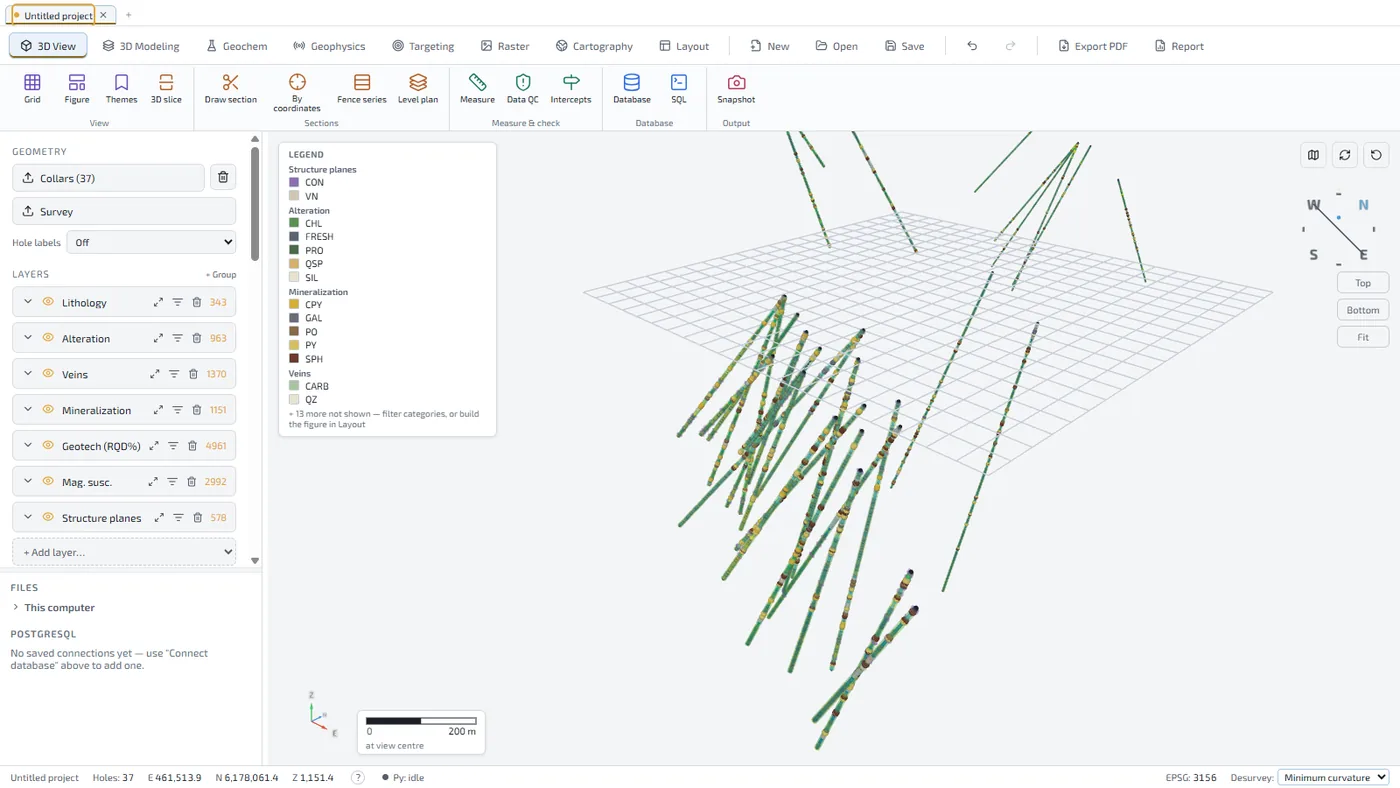
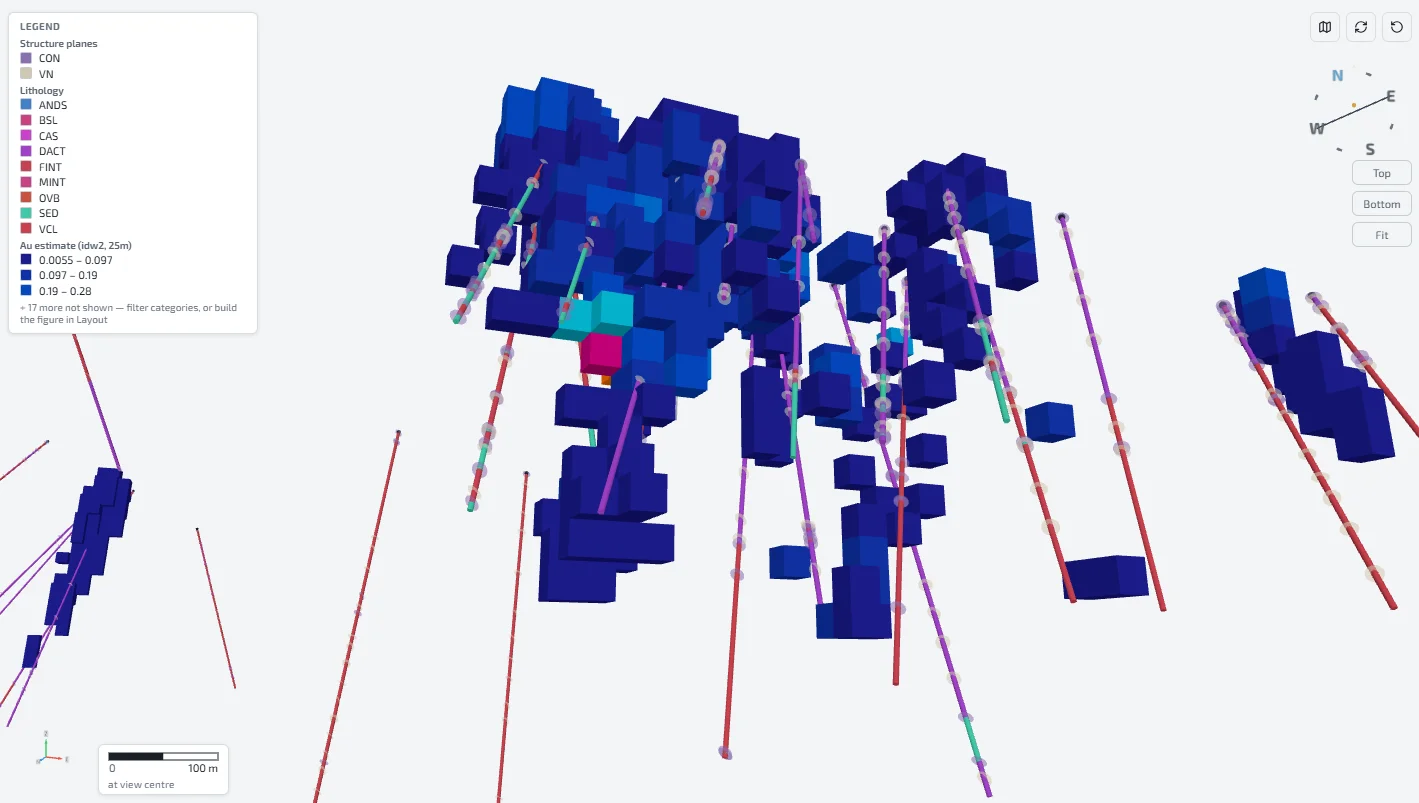
#597: website hero — new 3D view (lithology, structure planes, Au estimate blocks)

diff --git a/website/index.html b/website/index.html
@@ -35,7 +35,7 @@
           <a class="btn ghost" href="https://github.com/Matt-Mendes-ai/geostrix">View the source</a>
           <div class="dl-note" data-version>Windows 10 / 11 (64-bit) · free and open source (MIT)</div>
         </div>
-        <img class="shot" src="img/3dview.webp" width="1400" height="788" alt="GeoStrix 3D view: drillholes coloured by alteration, mineralization and veins, with a legend and a reference grid">
+        <img class="shot" src="img/3dview.webp" width="1419" height="803" alt="GeoStrix 3D view: drillholes coloured by lithology with structure planes, among blocks of an inverse-distance gold estimate">
       </div>
     </section>
 
